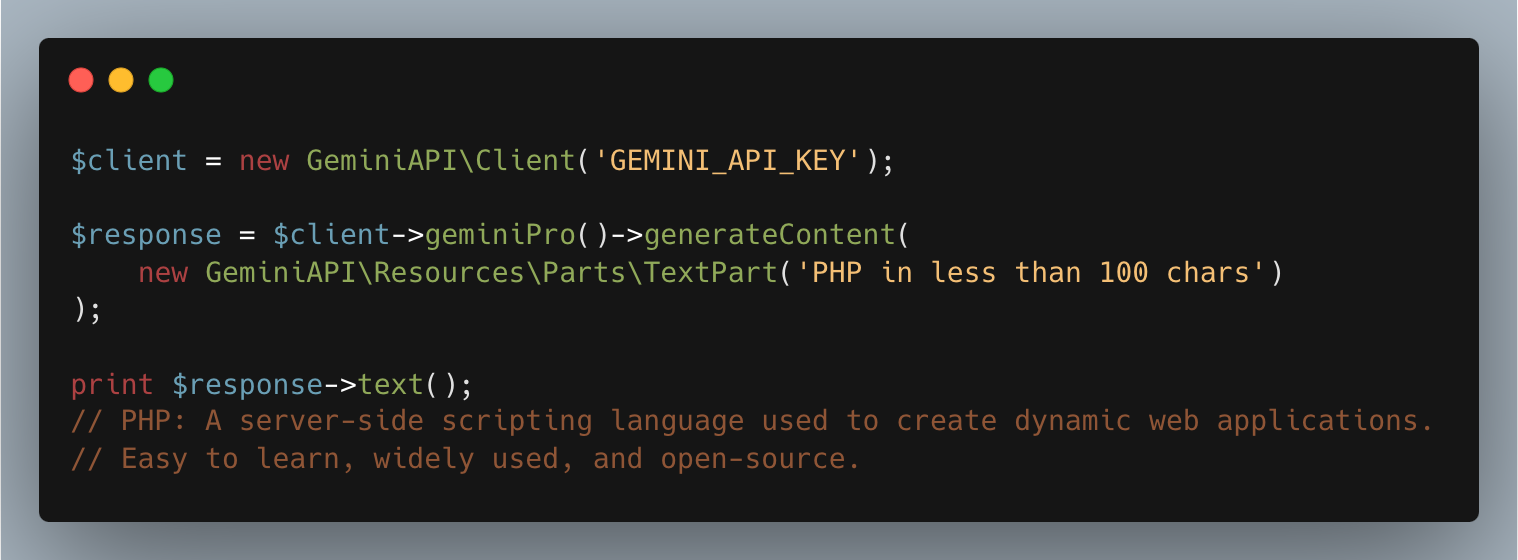
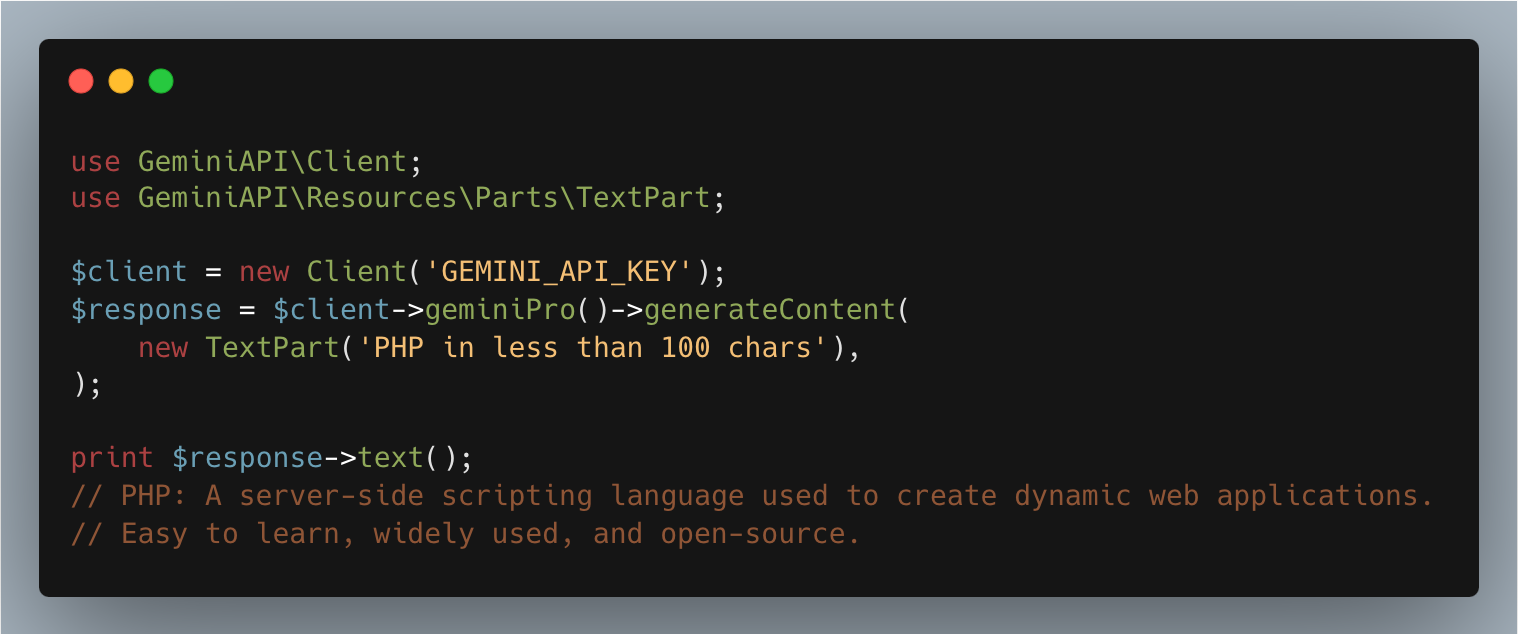
Fix: Examples in README.md are not correct

diff --git a/README.md b/README.md
@@ -51,10 +51,12 @@ you need to allow `php-http/discovery` composer plugin or install a PSR-18 compa
 ### Basic text generation
 
 ```php
-$client = new GeminiAPI\Client('GEMINI_API_KEY');
+use GeminiAPI\Client;
+use GeminiAPI\Resources\Parts\TextPart;
 
+$client = new Client('GEMINI_API_KEY');
 $response = $client->geminiPro()->generateContent(
-    new TextPart('PHP in less than 100 chars')
+    new TextPart('PHP in less than 100 chars'),
 );
 
 print $response->text();
@@ -67,8 +69,12 @@ print $response->text();
 > Image input modality is only enabled for Gemini Pro Vision model
 
 ```php
-$client = new GeminiAPI\Client('GEMINI_API_KEY');
+use GeminiAPI\Client;
+use GeminiAPI\Enums\MimeType;
+use GeminiAPI\Resources\Parts\ImagePart;
+use GeminiAPI\Resources\Parts\TextPart;
 
+$client = new Client('GEMINI_API_KEY');
 $response = $client->geminiProVision()->generateContent(
     new TextPart('Explain what is in the image'),
     new ImagePart(
@@ -87,8 +93,10 @@ print $response->text();
 ### Chat Session (Multi-Turn Conversations)
 
 ```php
-$client = new GeminiAPI\Client('GEMINI_API_KEY');
+use GeminiAPI\Client;
+use GeminiAPI\Resources\Parts\TextPart;
 
+$client = new Client('GEMINI_API_KEY');
 $chat = $client->geminiPro()->startChat();
 
 $response = $chat->sendMessage(new TextPart('Hello World in PHP'));
@@ -121,7 +129,10 @@ This code will print "Hello World!" to the standard output.
 ### Chat Session with history
 
 ```php
-$client = new GeminiAPI\Client('GEMINI_API_KEY');
+use GeminiAPI\Client;
+use GeminiAPI\Enums\Role;
+use GeminiAPI\Resources\Content;
+use GeminiAPI\Resources\Parts\TextPart;
 
 $history = [
     Content::text('Hello World in PHP', Role::User),
@@ -136,6 +147,8 @@ $history = [
         Role::Model,
     ),
 ];
+
+$client = new Client('GEMINI_API_KEY');
 $chat = $client->geminiPro()
     ->startChat()
     ->withHistory($history);
@@ -165,7 +178,9 @@ In the streaming response, the callback function will be called whenever a respo
 Long responses may be broken into separate responses, and you can start receiving responses faster using a content stream.
 
 ```php
-$client = new GeminiAPI\Client('GEMINI_API_KEY');
+use GeminiAPI\Client;
+use GeminiAPI\Resources\Parts\TextPart;
+use GeminiAPI\Responses\GenerateContentResponse;
 
 $callback = function (GenerateContentResponse $response): void {
     static $count = 0;
@@ -175,6 +190,7 @@ $callback = function (GenerateContentResponse $response): void {
     $count++;
 };
 
+$client = new Client('GEMINI_API_KEY');
 $client->geminiPro()->generateContentStream(
     $callback,
     [new TextPart('PHP in less than 100 chars')],
@@ -190,7 +206,11 @@ $client->geminiPro()->generateContentStream(
 > Requires `curl` extension to be enabled 
 
 ```php
-$client = new GeminiAPI\Client('GEMINI_API_KEY');
+use GeminiAPI\Client;
+use GeminiAPI\Enums\Role;
+use GeminiAPI\Resources\Content;
+use GeminiAPI\Resources\Parts\TextPart;
+use GeminiAPI\Responses\GenerateContentResponse;
 
 $history = [
     Content::text('Hello World in PHP', Role::User),
@@ -205,9 +225,6 @@ $history = [
         Role::Model,
     ),
 ];
-$chat = $client->geminiPro()
-    ->startChat()
-    ->withHistory($history);
 
 $callback = function (GenerateContentResponse $response): void {
     static $count = 0;
@@ -216,6 +233,11 @@ $callback = function (GenerateContentResponse $response): void {
     print $response->text();
     $count++;
 };
+
+$client = new Client('GEMINI_API_KEY');
+$chat = $client->geminiPro()
+    ->startChat()
+    ->withHistory($history);
 
 $chat->sendMessageStream($callback, new TextPart('in Go'));
 ```
@@ -238,8 +260,11 @@ This code will print "Hello World!" to the standard output.
 ### Embed Content
 
 ```php
-$client = new GeminiAPI\Client('GEMINI_API_KEY');
+use GeminiAPI\Client;
+use GeminiAPI\Enums\ModelName;
+use GeminiAPI\Resources\Parts\TextPart;
 
+$client = new Client('GEMINI_API_KEY');
 $response = $client->embeddingModel(ModelName::Embedding)
     ->embedContent(
         new TextPart('PHP in less than 100 chars'),
@@ -256,8 +281,10 @@ print_r($response->embedding->values);
 ### Tokens counting
 
 ```php
-$client = new GeminiAPI\Client('GEMINI_API_KEY');
+use GeminiAPI\Client;
+use GeminiAPI\Resources\Parts\TextPart;
 
+$client = new Client('GEMINI_API_KEY');
 $response = $client->geminiPro()->countTokens(
     new TextPart('PHP in less than 100 chars'),
 );
@@ -269,8 +296,9 @@ print $response->totalTokens;
 ### Listing models
 
 ```php
-$client = new GeminiAPI\Client('GEMINI_API_KEY');
+use GeminiAPI\Client;
 
+$client = new Client('GEMINI_API_KEY');
 $response = $client->listModels();
 
 print_r($response->models);
@@ -297,12 +325,18 @@ print_r($response->models);
 #### Safety Settings and Generation Configuration
 
 ```php
-$client = new GeminiAPI\Client('GEMINI_API_KEY');
-$safetySetting = new GeminiAPI\SafetySetting(
+use GeminiAPI\Client;
+use GeminiAPI\Enums\HarmCategory;
+use GeminiAPI\Enums\HarmBlockThreshold;
+use GeminiAPI\GenerationConfig;
+use GeminiAPI\Resources\Parts\TextPart;
+use GeminiAPI\SafetySetting;
+
+$safetySetting = new SafetySetting(
     HarmCategory::HARM_CATEGORY_HATE_SPEECH,
     HarmBlockThreshold::BLOCK_LOW_AND_ABOVE,
 );
-$generationConfig = (new GeminiAPI\GenerationConfig())
+$generationConfig = (new GenerationConfig())
     ->withCandidateCount(1)
     ->withMaxOutputTokens(40)
     ->withTemperature(0.5)
@@ -310,6 +344,7 @@ $generationConfig = (new GeminiAPI\GenerationConfig())
     ->withTopP(0.6)
     ->withStopSequences(['STOP']);
 
+$client = new Client('GEMINI_API_KEY');
 $response = $client->geminiPro()
     ->withAddedSafetySetting($safetySetting)
     ->withGenerationConfig($generationConfig)
@@ -321,11 +356,15 @@ $response = $client->geminiPro()
 #### Using your own HTTP client
 
 ```php
-$guzzle = new GuzzleHttp\Client([
+use GeminiAPI\Client as GeminiClient;
+use GeminiAPI\Resources\Parts\TextPart;
+use GuzzleHttp\Client as GuzzleClient;
+
+$guzzle = new GuzzleClient([
   'proxy' => 'http://localhost:8125',
 ]);
-$client = new GeminiAPI\Client('GEMINI_API_KEY', $guzzle);
 
+$client = new GeminiClient('GEMINI_API_KEY', $guzzle);
 $response = $client->geminiPro()->generateContent(
     new TextPart('PHP in less than 100 chars')
 );
@@ -348,15 +387,18 @@ The following curl options will be overwritten by the Gemini Client.
 You can also pass the headers you want to be used in the requests.
 
 ```php
-$client = new GeminiAPI\Client('GEMINI_API_KEY');
+use GeminiAPI\Client;
+use GeminiAPI\Resources\Parts\TextPart;
+use GeminiAPI\Responses\GenerateContentResponse;
 
 $callback = function (GenerateContentResponse $response): void {
     print $response->text();
 };
 
 $ch = curl_init();
-curl_setopt($ch, CURLOPT_PROXY, 'http://localhost:8125');
+curl_setopt($ch, \CURLOPT_PROXY, 'http://localhost:8125');
 
+$client = new Client('GEMINI_API_KEY');
 $client->withRequestHeaders([
         'User-Agent' => 'My Gemini-backed app'
     ])
